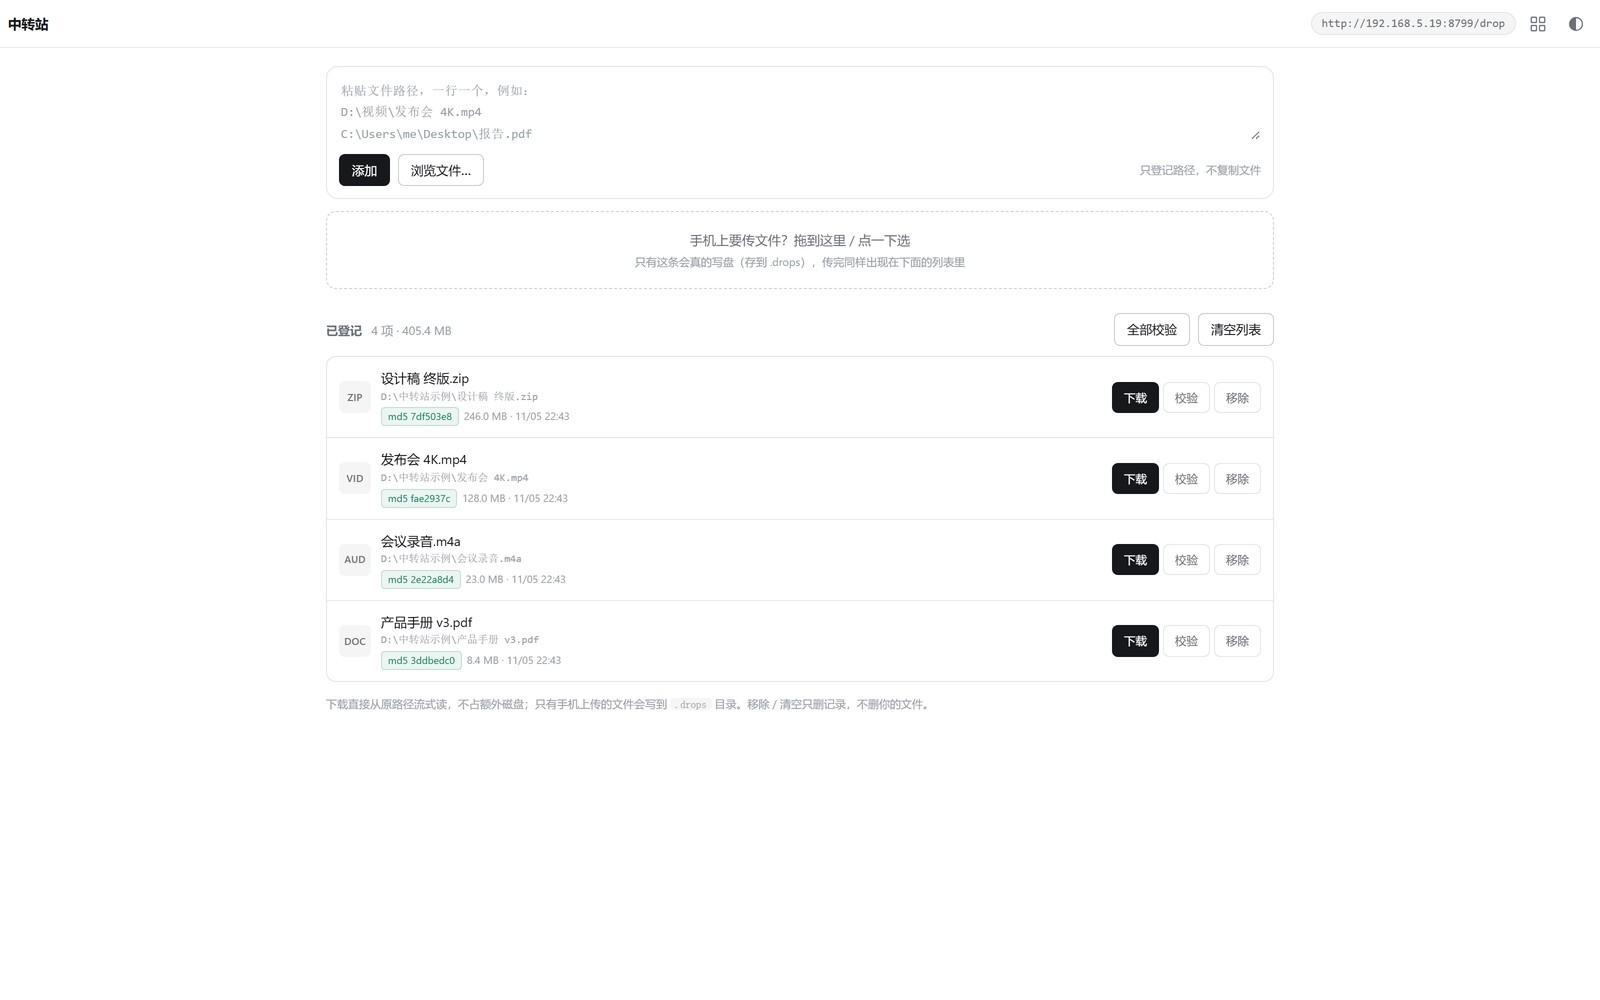
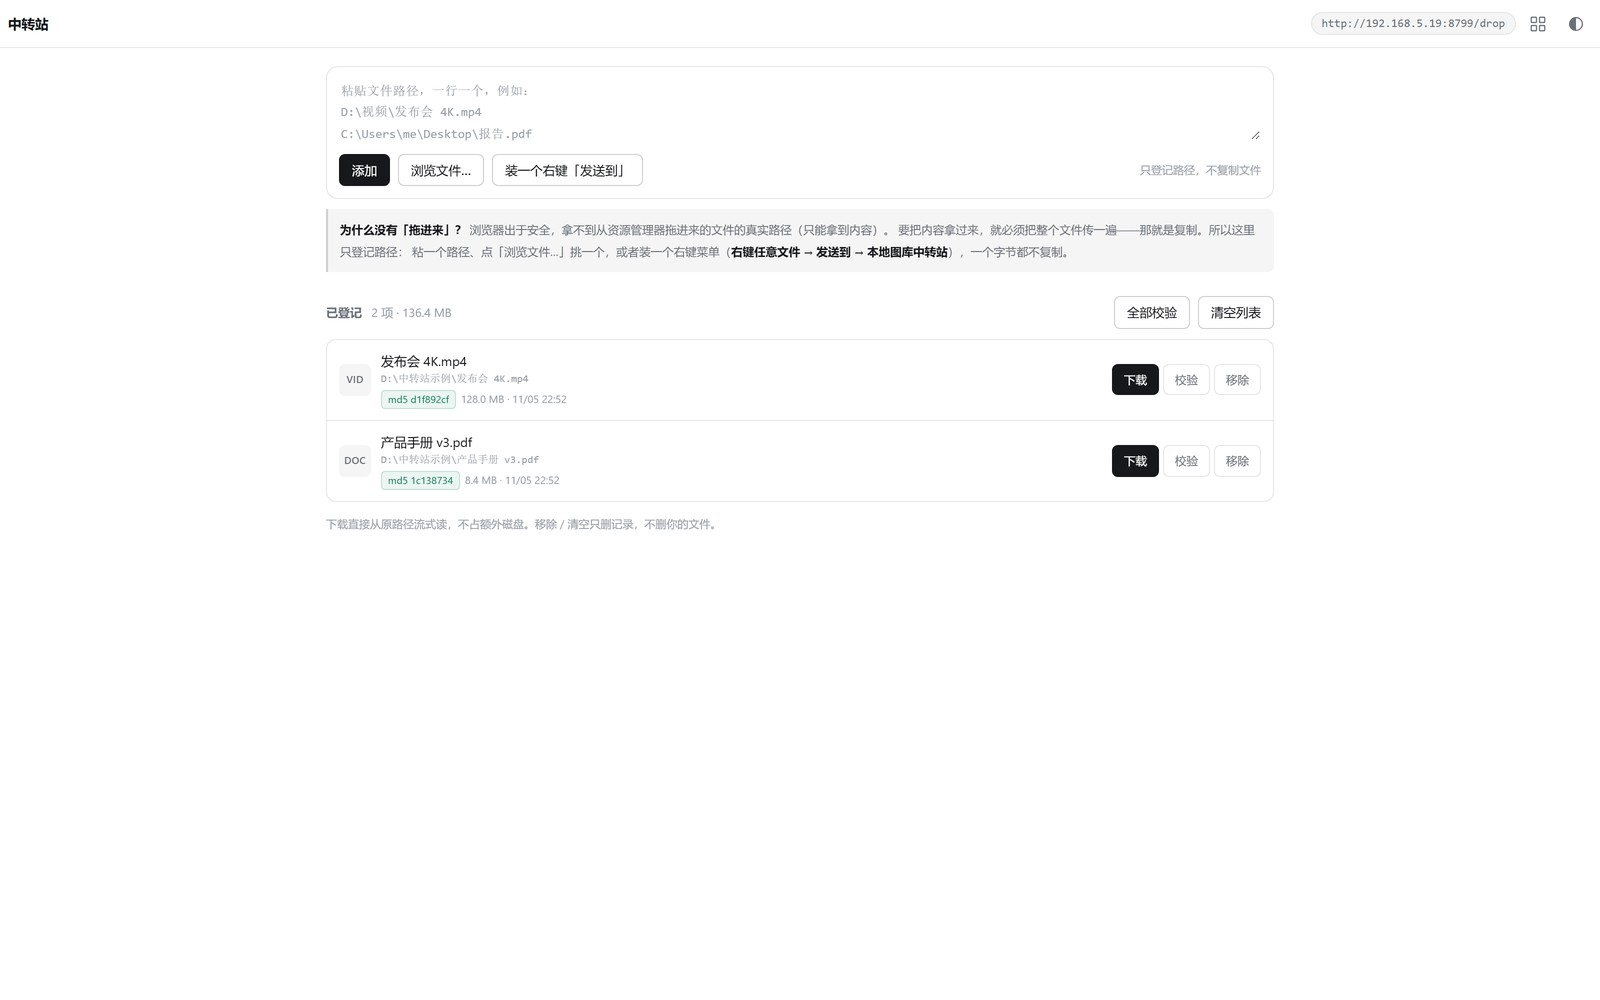
v1.5：彻底关掉写盘，中转站只登记路径
- 上传默认关闭（--allow-upload 才开），.drops/ 不再被创建
- 新增「右键 → 发送到 → 本地图库中转站」：装一次就能零拷贝登记（tools/sendto.ps1 + SendTo 瘦壳）
- 页面去掉拖拽上传区，改为说明浏览器拿不到拖入文件路径；拖入时直接打开文件选择器
- 修两个 Windows 坑：批处理 LF 换行 + chcp 65001 会让 cmd 吃字符（改 CRLF）；
  PowerShell 5.1 -Body 传字符串按 ASCII 发，中文路径乱码（改 UTF-8 字节 + charset=utf-8）

diff --git a/public/drop.html b/public/drop.html
@@ -33,16 +33,13 @@
   .addrow .sp { flex: 1; }
   .addrow .tip { font-size: 11px; color: var(--fg-mute); }
 
-  .dz {
-    margin-top: 12px;
-    border: 1.5px dashed var(--line-strong); border-radius: 10px;
-    padding: 18px 16px; text-align: center; cursor: pointer;
-    background: transparent; transition: border-color .15s, background .15s;
-    -webkit-tap-highlight-color: transparent;
+  .why {
+    margin-top: 10px; padding: 10px 12px;
+    border-left: 2px solid var(--line-strong);
+    background: var(--soft); border-radius: 0 6px 6px 0;
+    font-size: 11.5px; line-height: 1.85; color: var(--fg-dim);
   }
-  .dz:hover, .dz.over { border-color: var(--fg-mute); background: var(--soft); }
-  .dz-t { font-size: 13px; color: var(--fg-dim); }
-  .dz-s { font-size: 11px; color: var(--fg-mute); margin-top: 4px; }
+  .why b { color: var(--fg); font-weight: 600; }
 
   .sec-head { display: flex; align-items: center; gap: 8px; margin: 24px 0 10px; flex-wrap: wrap; }
   .sec-t { font-size: 12px; font-weight: 600; color: var(--fg-dim); }
@@ -130,21 +127,17 @@
     <div class="addrow">
       <button id="btnAdd" class="btn primary small">添加</button>
       <button id="btnPick" class="btn small ghost">浏览文件…</button>
+      <button id="btnSendTo" class="btn small ghost">装一个右键「发送到」</button>
       <span class="sp"></span>
       <span class="tip">只登记路径，不复制文件</span>
     </div>
   </div>
 
-  <div id="dropZone" class="dz">
-    <div class="dz-t">手机上要传文件？拖到这里 / 点一下选</div>
-    <div class="dz-s">只有这条会真的写盘（存到 .drops），传完同样出现在下面的列表里</div>
+  <div class="why">
+    <b>为什么没有「拖进来」？</b> 浏览器出于安全，拿不到从资源管理器拖进来的文件的真实路径（只能拿到内容）。
+    要把内容拿过来，就必须把整个文件传一遍——那就是复制。所以这里只登记路径：
+    粘一个路径、点「浏览文件…」挑一个，或者装一个右键菜单（<b>右键任意文件 → 发送到 → 本地图库中转站</b>），一个字节都不复制。
   </div>
-  <input id="fileInput" type="file" multiple hidden>
-
-  <section id="queueWrap" hidden>
-    <div class="sec-head"><span class="sec-t">正在上传</span></div>
-    <div id="queue"></div>
-  </section>
 
   <div class="sec-head">
     <span class="sec-t">已登记 <b id="listMeta"></b></span>
@@ -183,7 +176,6 @@
 (function () {
   'use strict';
   const $ = (s) => document.querySelector(s);
-  const CHUNK = 4 * 1024 * 1024;
 
   let toastTimer = 0;
   function toast(msg) {
@@ -191,7 +183,7 @@
     t.textContent = msg;
     t.classList.add('on');
     clearTimeout(toastTimer);
-    toastTimer = setTimeout(() => t.classList.remove('on'), 2000);
+    toastTimer = setTimeout(() => t.classList.remove('on'), 2200);
   }
 
   function fmtSize(n) {
@@ -216,9 +208,6 @@
     if (/^(pdf|docx?|xlsx?|pptx?|txt|md)$/.test(ext)) return 'DOC';
     if (/^(exe|msi|apk|dmg)$/.test(ext)) return 'APP';
     return 'FILE';
-  }
-  function escapeHtml(s) {
-    return String(s).replace(/[&<>"]/g, (c) => ({ '&': '&amp;', '<': '&lt;', '>': '&gt;', '"': '&quot;' }[c]));
   }
 
   let dark = false;
@@ -412,6 +401,19 @@
     }
   });
 
+  // ---------------------------------------------------------- 右键「发送到」
+  $('#btnSendTo').addEventListener('click', async () => {
+    if (!confirm('在「发送到」菜单里装一个「本地图库中转站」？\n\n装完：右键任意文件 → 发送到 → 本地图库中转站，就会直接登记路径。\n（只是在 SendTo 目录里放一个 .cmd，随时可以删）')) return;
+    try {
+      const r = await fetch('/api/drop/install-sendto', { method: 'POST' });
+      const j = await r.json();
+      if (!r.ok) throw new Error(j.error || ('HTTP ' + r.status));
+      toast('装好了，去右键试试');
+    } catch (e) {
+      toast('安装失败：' + e.message);
+    }
+  });
+
   // ---------------------------------------------------------- 文件选择器
   async function browse(p) {
     try {
@@ -460,118 +462,13 @@
   $('#pkPath').addEventListener('keydown', (e) => { if (e.key === 'Enter') browse(e.target.value.trim()); });
   $('#pkUp').addEventListener('click', () => { const p = $('#pkUp').__parent; if (p) browse(p); });
 
-  // ---------------------------------------------------------- 上传（只有这条会写盘）
-  function addRow(file) {
-    $('#queueWrap').hidden = false;
-    const row = document.createElement('div');
-    row.style.cssText = 'position:relative;display:flex;align-items:center;gap:10px;padding:10px 12px;margin-bottom:6px;border:1px solid var(--line);border-radius:8px;background:var(--panel);overflow:hidden;';
-    const nm = document.createElement('div');
-    nm.style.cssText = 'flex:1;min-width:0;font-size:12.5px;overflow:hidden;text-overflow:ellipsis;white-space:nowrap;';
-    nm.textContent = file.name;
-    const st = document.createElement('div');
-    st.style.cssText = 'flex:none;font-size:11px;color:var(--fg-mute);font-variant-numeric:tabular-nums;';
-    st.textContent = '等待…';
-    const bar = document.createElement('div');
-    bar.style.cssText = 'position:absolute;left:0;right:0;bottom:0;height:2px;background:var(--line);';
-    const fill = document.createElement('i');
-    fill.style.cssText = 'display:block;height:100%;width:0;background:var(--fg);transition:width .12s linear;';
-    bar.appendChild(fill);
-    row.append(nm, st, bar);
-    $('#queue').appendChild(row);
-
-    return {
-      set(pct, text) {
-        fill.style.width = Math.max(0, Math.min(100, pct * 100)).toFixed(1) + '%';
-        st.textContent = text;
-      },
-      finish(text) {
-        this.set(1, text);
-        setTimeout(() => { try { row.remove(); } catch (e) { } }, 2500);
-      },
-    };
-  }
-
-  function putChunk(name, blob, start, end, total, onProgress) {
-    return new Promise((resolve, reject) => {
-      const xhr = new XMLHttpRequest();
-      xhr.open('PUT', '/api/drop/upload?name=' + encodeURIComponent(name));
-      xhr.setRequestHeader('Content-Range', 'bytes ' + start + '-' + (end - 1) + '/' + total);
-      xhr.upload.onprogress = (e) => { if (e.lengthComputable) onProgress(e.loaded); };
-      xhr.onload = () => {
-        let body = null;
-        try { body = JSON.parse(xhr.responseText); } catch (e) { }
-        resolve({ status: xhr.status, body: body || {} });
-      };
-      xhr.onerror = () => reject(new Error('网络中断'));
-      xhr.send(blob);
-    });
-  }
-
-  async function uploadOne(file) {
-    const row = addRow(file);
-    const t0 = performance.now();
-    let off = 0;
-    try {
-      const r = await fetch('/api/drop/upload?name=' + encodeURIComponent(file.name) + '&size=' + file.size);
-      const j = await r.json();
-      if (j && j.received > 0 && j.received < file.size) off = j.received;
-    } catch (e) { }
-
-    while (off < file.size) {
-      const end = Math.min(off + CHUNK, file.size);
-      const start = off;
-      let res;
-      try {
-        res = await putChunk(file.name, file.slice(off, end), off, end, file.size, (loaded) => {
-          const done = start + loaded;
-          const sec = Math.max(0.001, (performance.now() - t0) / 1000);
-          row.set(done / file.size, fmtSize(done) + ' / ' + fmtSize(file.size) + ' · ' + fmtSize(done / sec) + '/s');
-        });
-      } catch (e) {
-        row.finish('中断：' + e.message);
-        return false;
-      }
-      if (res.status === 409) { off = Number(res.body.expect) || 0; continue; }
-      if (res.status < 200 || res.status >= 300) { row.finish('失败：HTTP ' + res.status); return false; }
-      if (res.body.done) { row.finish('完成'); return true; }
-      off = end;
-    }
-    row.finish('完成');
-    return true;
-  }
-
-  let uploading = false;
-  const pending = [];
-  async function pump() {
-    if (uploading) return;
-    uploading = true;
-    while (pending.length) {
-      const f = pending.shift();
-      try { await uploadOne(f); } catch (e) { toast('上传出错：' + e.message); }
-    }
-    uploading = false;
-    refresh();
-  }
-  function enqueue(files) {
-    const arr = Array.from(files || []);
-    if (!arr.length) return;
-    for (const f of arr) pending.push(f);
-    pump();
-  }
-
-  const zone = $('#dropZone');
-  const input = $('#fileInput');
-  zone.addEventListener('click', () => input.click());
-  input.addEventListener('change', () => { enqueue(input.files); input.value = ''; });
-  let depth = 0;
-  const hasFiles = (dt) => Array.from((dt && dt.types) || []).indexOf('Files') >= 0;
-  window.addEventListener('dragenter', (e) => { if (!hasFiles(e.dataTransfer)) return; depth++; zone.classList.add('over'); });
-  window.addEventListener('dragover', (e) => { if (hasFiles(e.dataTransfer)) e.preventDefault(); });
-  window.addEventListener('dragleave', () => { depth = Math.max(0, depth - 1); if (!depth) zone.classList.remove('over'); });
+  // 拖进来不吞掉，也不上传：直接告诉用户浏览器做不到，并打开选择器
+  window.addEventListener('dragover', (e) => e.preventDefault());
   window.addEventListener('drop', (e) => {
-    if (!hasFiles(e.dataTransfer)) return;
-    e.preventDefault(); depth = 0; zone.classList.remove('over');
-    enqueue(e.dataTransfer.files);
+    e.preventDefault();
+    toast('浏览器读不到拖进来的文件路径，用「浏览文件…」或右键「发送到」');
+    $('#picker').hidden = false;
+    browse('');
   });
 
   // ---------------------------------------------------------- 启动
@@ -590,9 +487,7 @@
         try { await navigator.clipboard.writeText(url); toast('已复制：' + url); }
         catch (e) { toast(url); }
       });
-      const hint = $('#dirHint');
-      hint.innerHTML = '下载直接从原路径流式读，不占额外磁盘；只有手机上传的文件会写到 <code>.drops</code> 目录。移除 / 清空只删记录，不删你的文件。';
-      hint.title = '上传目录：' + (d.dir || '');
+      $('#dirHint').textContent = '下载直接从原路径流式读，不占额外磁盘。移除 / 清空只删记录，不删你的文件。';
     } catch (e) { }
 
     try {

diff --git a/server.js b/server.js
@@ -995,6 +995,9 @@ function dropPath(name) {
 // 只有「手机上传来」的文件才落盘到 DROP_DIR，落盘后同样登记成一条路径记录。
 const DROP_DB = path.join(APP_DIR, '.drops.json');
 const HASH_MAX = 512 * 1024 * 1024;   // 超过这个大小不在添加时自动算 md5，交给「校验」按钮
+// 上传默认关闭：浏览器读不到拖进来的文件的真实路径，只能把字节传上来 = 复制一份。
+// 真要用手机往电脑传文件，再显式加 --allow-upload。
+const ALLOW_UPLOAD = argv.includes('--allow-upload');
 
 let dropItems = [];                   // [{ id, path, name, size, mtime, hash, hashAt, addedAt, source }]
 let dropSaveTimer = 0;
@@ -1278,6 +1281,48 @@ const server = http.createServer(async (req, res) => {
             return;
         }
 
+        // 安装「发送到」快捷方式：右键任意文件 → 发送到 → 本地图库中转站
+        // 这是浏览器之外唯一能做到「拖一下就登记、一个字节都不复制」的入口
+        if (p === '/api/drop/install-sendto' && req.method === 'POST') {
+            if (process.platform !== 'win32') throw fail(400, '这个功能只在 Windows 上有意义');
+            const sendTo = path.join(process.env.APPDATA || '', 'Microsoft', 'Windows', 'SendTo');
+            if (!isDir(sendTo)) throw fail(404, '找不到「发送到」目录：' + sendTo);
+
+            // 1) 真正的逻辑放在 ps1 里：用 -File 调用时 $args 才拿得到路径
+            const toolsDir = path.join(APP_DIR, 'tools');
+            try { fs.mkdirSync(toolsDir, { recursive: true }); } catch (e) { }
+            const ps1 = path.join(toolsDir, 'sendto.ps1');
+            const psLines = [
+                'param([Parameter(ValueFromRemainingArguments = $true)][string[]]$Paths)',
+                'if (-not $Paths -or $Paths.Count -eq 0) { exit 0 }',
+                '$body = @{ paths = @($Paths) } | ConvertTo-Json -Compress',
+                // PowerShell 5.1 里 -Body 传字符串会按 ASCII 发出去，中文路径会变乱码；
+                // 必须自己转成 UTF-8 字节，再声明 charset
+                '$bytes = [System.Text.Encoding]::UTF8.GetBytes($body)',
+                'try {',
+                "  Invoke-RestMethod -Uri 'http://127.0.0.1:" + PORT + "/api/drop/add' -Method Post "
+                    + "-ContentType 'application/json; charset=utf-8' -Body $bytes -TimeoutSec 8 | Out-Null",
+                '} catch { }',
+                'exit 0',
+                '',
+            ];
+            fs.writeFileSync(ps1, psLines.join('\r\n'), 'utf8');
+
+            // 2) SendTo 里只放一个瘦壳；注意必须是 CRLF，
+            //    chcp 之后接 LF 换行会让 cmd 的解析器吃字符（实测会少掉首字母）
+            const target = path.join(sendTo, '本地图库中转站.cmd');
+            const cmdLines = [
+                '@echo off',
+                'chcp 65001 >nul',
+                'powershell -NoProfile -WindowStyle Hidden -ExecutionPolicy Bypass -File "' + ps1 + '" %*',
+                '',
+            ];
+            fs.writeFileSync(target, cmdLines.join('\r\n'), 'utf8');
+
+            sendJSON(req, res, 200, { ok: true, path: target, script: ps1 });
+            return;
+        }
+
         // 校验：重新算 md5，和登记时的基线比对
         if (p === '/api/drop/verify' && req.method === 'POST') {
             const body = await readBody(req).catch(() => ({}));
@@ -1306,6 +1351,7 @@ const server = http.createServer(async (req, res) => {
 
         // 断点续传：问一下已经收了多少字节（HEAD 没有 body，所以两个都支持，HEAD 走 X-Received 头）
         if (p === '/api/drop/upload' && (req.method === 'GET' || req.method === 'HEAD')) {
+            if (!ALLOW_UPLOAD) throw fail(403, '上传已关闭：启动时加 --allow-upload 才会写盘');
             const name = safeDropName(u.searchParams.get('name') || '');
             const total = Number(u.searchParams.get('size') || 0);
             let have = 0;
@@ -1317,6 +1363,7 @@ const server = http.createServer(async (req, res) => {
 
         // 分片上传：裸 body + Content-Range，不用 multipart，也不经过内存缓冲
         if (p === '/api/drop/upload' && (req.method === 'PUT' || req.method === 'POST')) {
+            if (!ALLOW_UPLOAD) throw fail(403, '上传已关闭：启动时加 --allow-upload 才会写盘');
             const name = safeDropName(u.searchParams.get('name') || '');
             const m = /^bytes (\d+)-(\d+)\/(\d+)$/.exec(String(req.headers['content-range'] || ''));
             if (!m) throw fail(400, 'need Content-Range: bytes a-b/total');

diff --git a/README.md b/README.md
@@ -116,18 +116,26 @@
 
 **核心：不复制文件。** 电脑上的文件只登记一条「路径 + 大小 + 修改时间 + md5」，别人下载时直接从原路径流式读——4GB 的视频不会多占一个字节磁盘，也不用等它复制一遍。
 
-1. 点顶栏的 **⤴** 进中转站
-2. 粘贴路径（一行一个），或者点「浏览文件…」挑一个
-3. 另一台设备打开顶栏显示的那个地址（`http://192.168.x.x:8710/drop`），点「下载」
+三种登记方式，都是零拷贝：
+
+| 方式 | 操作 | 适合 |
+|---|---|---|
+| **右键「发送到」** | 点一次「装一个右键『发送到』」，之后右键任意文件 → 发送到 → 本地图库中转站 | 日常最顺手，一次可以选多个 |
+| **粘贴路径** | 把路径贴进输入框，一行一个，点「添加」 | 路径已经在剪贴板里 |
+| **浏览文件…** | 服务端列目录，点文件名就加进来 | 不确定路径长什么样 |
+
+加完，另一台设备打开顶栏显示的那个地址（`http://192.168.x.x:8710/drop`），点「下载」。
 
 细节：
 
 - **校验**：登记时自动算 md5（≤512MB），之后随时点「校验」重算比对；文件被改过标「已变更」，被删了标「文件不在了」
 - **只删记录**：点「移除」或「清空列表」只删这条登记，磁盘上的原文件一个都不会动
-- **手机传文件**：拖进虚线框才会真的写盘（存到 `.drops`），传完同样进列表；4 MiB 分片 + 断点续传
 - **实时刷新**：SSE 推送，一台设备加了 / 删了，另一台列表自动变
 - 下载复用图库那套 Range / 206，几 GB 的原盘也不会把内存撑爆
 - **不做鉴权**：局域网内谁打开这个页面谁就能看、能下；但「下载」只能下**登记过的**路径
+
+> **为什么没有「拖进来」？** 浏览器出于安全拿不到拖入文件的真实路径（只能拿到内容）。要把内容拿过来就必须把整个文件传一遍——那就是复制。所以这里没有拖拽上传，只有上面三条路径入口。
+> 真需要手机往电脑传文件，用 `--allow-upload` 启动，才会出现上传区（那是唯一会写盘的路径，落到 `.drops/`）。
 
 ### 访客门户（连上 WiFi 自动弹说明页）
 
@@ -227,6 +235,7 @@ node server.js                       # 默认 8710
 node server.js --port=8711           # 换端口
 node server.js --root="D:\图片"      # 直接指定图库目录
 node server.js --drop="D:\中转站"    # 换「手机上传」的落地目录（路径引用的文件不受影响）
+node server.js --allow-upload        # 打开上传（默认关闭，开了才会写盘）
 node server.js --portal              # 80 端口起门户跳转
 node server.js --dns                 # 53 端口劫持联网探测域名
 node server.js --dns-upstream=8.8.8.8  # 换 DNS 上游
@@ -252,8 +261,9 @@ node server.js --no-kill             # 端口被占时不自动清理
 | `GET /api/drop/list` | 登记列表（每条实时 stat：还在不在 / 大小 / 是否变更） |
 | `POST /api/drop/add` | 登记路径 `{ paths: [...] }`，不复制文件 |
 | `POST /api/drop/verify` | 重算 md5 比对 `{ id? }`，不传 id 就全量校验 |
-| `GET /api/drop/upload?name=X&size=N` | 查询已收字节（断点续传） |
-| `PUT /api/drop/upload?name=X` | 分片上传，需 `Content-Range: bytes a-b/total`（唯一会写盘的入口） |
+| `GET /api/drop/upload?name=X&size=N` | 查询已收字节（需 `--allow-upload`） |
+| `PUT /api/drop/upload?name=X` | 分片上传（需 `--allow-upload`，唯一会写盘的入口） |
+| `POST /api/drop/install-sendto` | 在「发送到」菜单装一个快捷方式（Windows） |
 | `GET /api/drop/events` | SSE，列表变化实时推送 |
 | `GET /d/:id` | 下载（从登记的原路径流式读，支持 Range） |
 | `DELETE /api/drop/item?id=` · `/api/drop/all` | 移除记录 / 清空记录（不删文件） |
@@ -302,6 +312,8 @@ LocalGallery/
 ├── docs/
 │   ├── img/            README 截图
 │   └── 中转站-调研与集成方案.md
+├── tools/
+│   └── sendto.ps1      「发送到」快捷方式调用的脚本（安装时生成）
 └── README.md
 ```
 
@@ -337,6 +349,13 @@ v1.2 起服务端已设 `requestTimeout = 0`，慢网络也不会被 5 分钟掐
 ---
 
 ## 更新日志
+
+### v1.5 · 2026-11-05
+
+- **上传默认关闭**（`--allow-upload` 才开）：中转站不再有任何默认写盘的路径，`.drops/` 只有你显式开启上传才会被创建
+- 新增「右键 → 发送到 → 本地图库中转站」：装一次，之后右键任意文件就能零拷贝登记（`tools/sendto.ps1` + SendTo 里的一个瘦壳）
+- 中转站页面去掉拖拽上传区，改成说明「浏览器拿不到拖入文件的真实路径」，拖入时直接打开文件选择器
+- 修掉两个 Windows 上的坑：批处理用 LF 换行时 `chcp 65001` 之后 cmd 会吃掉字符（改成 CRLF）；PowerShell 5.1 的 `-Body` 传字符串会按 ASCII 发出去，中文路径变乱码（改成 UTF-8 字节 + `charset=utf-8`）
 
 ### v1.4 · 2026-11-05
 
